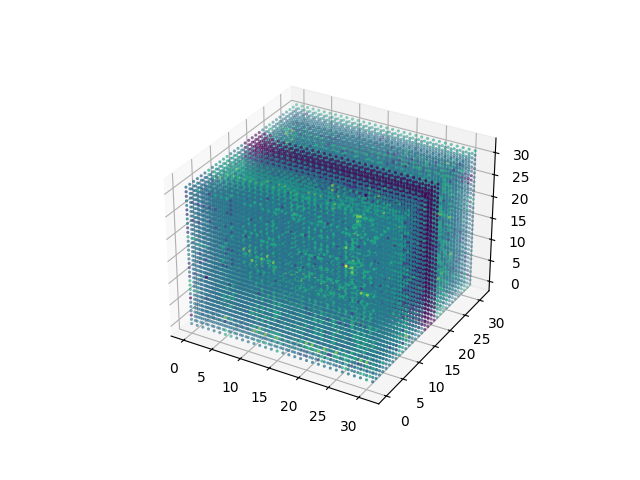
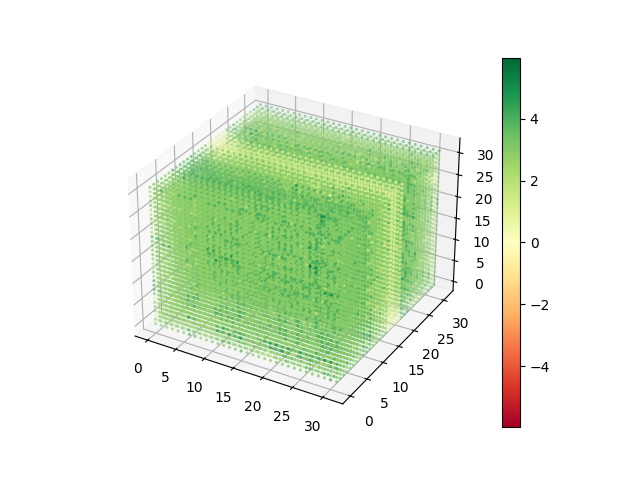
added colorbar and centered diverging colormap around 0

diff --git a/first_order_SDRG_domain_visualization.py b/first_order_SDRG_domain_visualization.py
@@ -19,6 +19,7 @@ neighboring locations with the same value in the 3D array should have the same c
 '''
 import numpy as np
 import matplotlib.pyplot as plt
+import matplotlib.colors as colors
 FILE_NAME = 'first_order_SDRG_domains_L=32_h=5'
 
 # Read data from file
@@ -43,6 +44,8 @@ x, y, z = np.meshgrid(range(L), range(L), range(L))
 # Plot the 3D array
 fig = plt.figure()
 ax = fig.add_subplot(projection='3d')
-ax.scatter(x, y, z, c=data.flatten(), marker='.', cmap='viridis', linewidths=0.001)
+sc = ax.scatter(x, y, z, c=data.flatten(), marker='.', cmap='RdYlGn',
+                norm=colors.CenteredNorm(), linewidths=0.001)
+plt.colorbar(sc)
 plt.savefig(FILE_NAME + '.png')
 plt.show()
